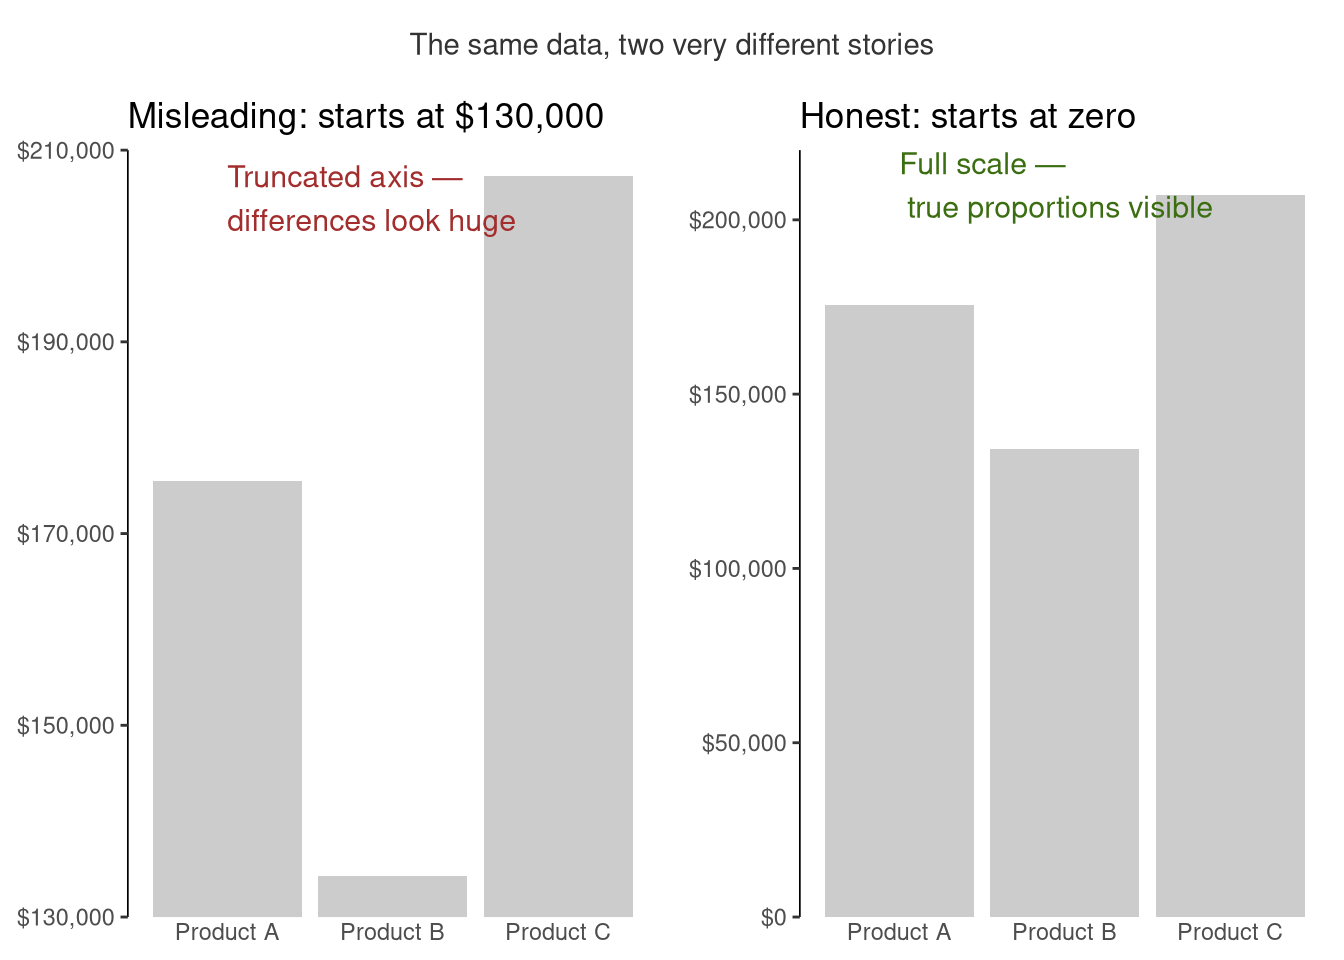
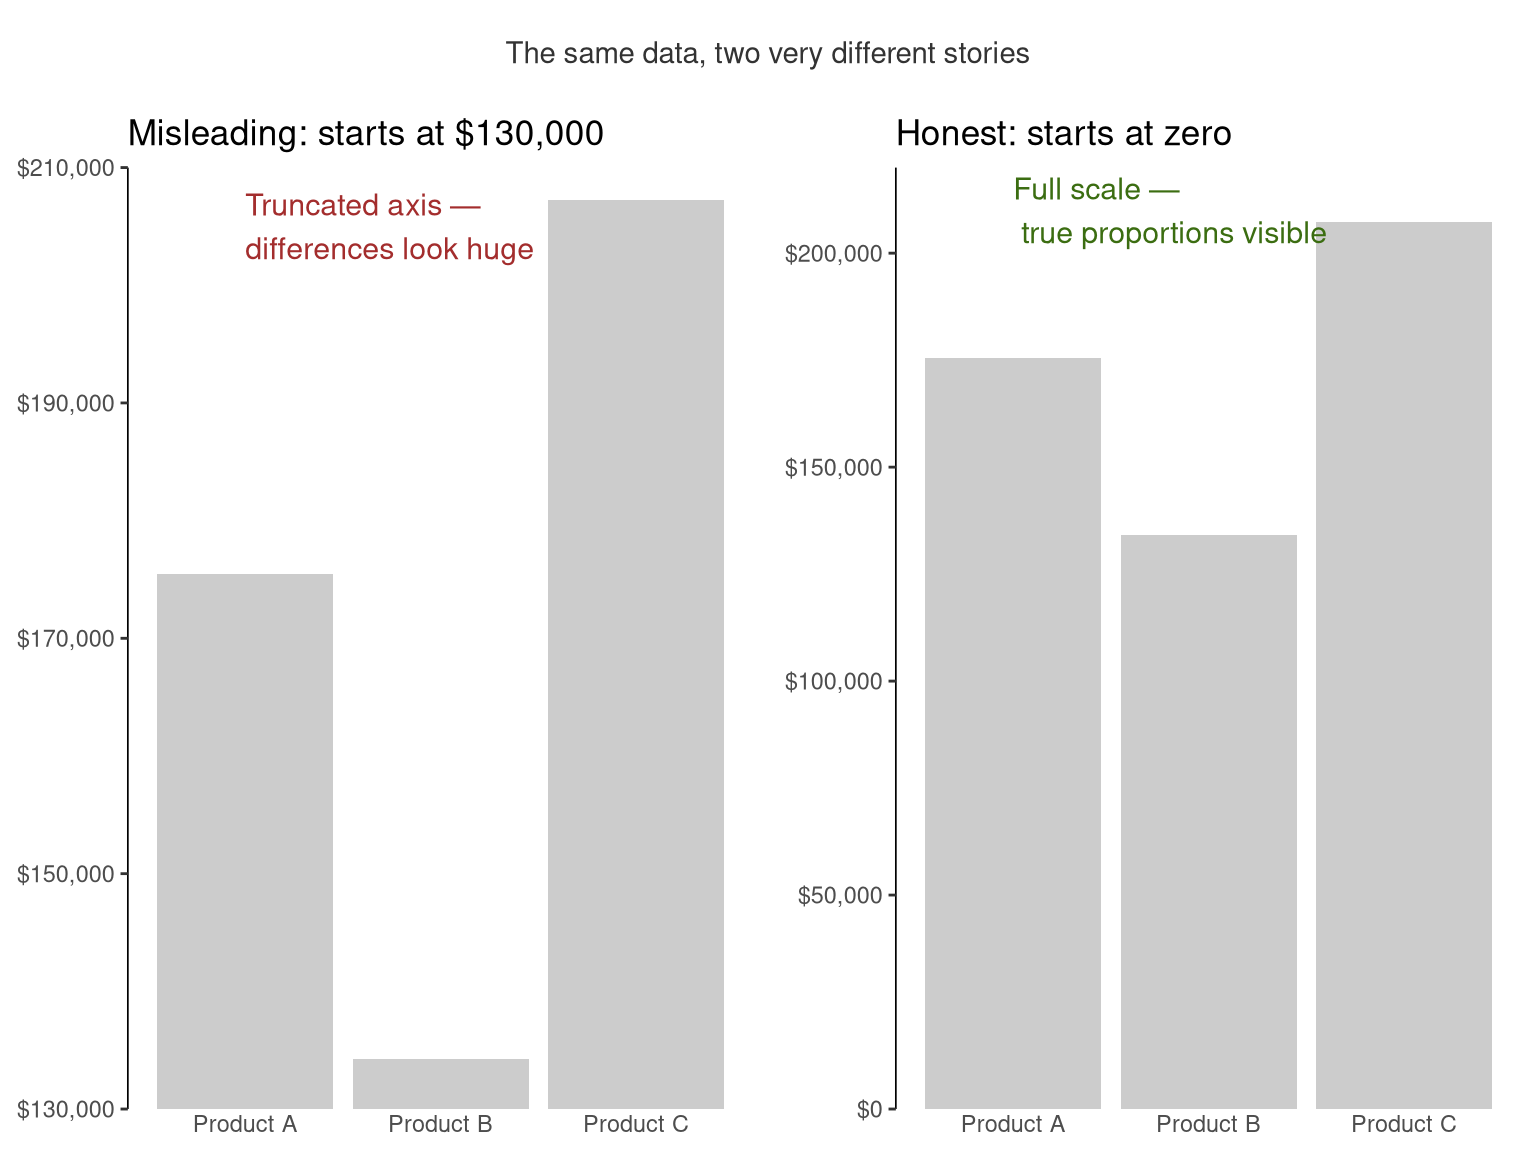
set figure aspect ratios in yaml setup

diff --git a/tufte_visualization_exercises.html b/tufte_visualization_exercises.html
@@ -221,7 +221,7 @@ $ market_share          &lt;dbl&gt; 18.5, 15.2, 22.1, 19.8, 13.7, 23.4, 17.9, 16
 <div class="cell-output-display">
 <div>
 <figure class="figure">
-<p><img src="tufte_visualization_exercises_files/figure-html/exercise-1-1.png" class="img-fluid figure-img" width="672"></p>
+<p><img src="tufte_visualization_exercises_files/figure-html/exercise-1-1.png" class="img-fluid figure-img" width="768"></p>
 </figure>
 </div>
 </div>
@@ -260,7 +260,7 @@ $ market_share          &lt;dbl&gt; 18.5, 15.2, 22.1, 19.8, 13.7, 23.4, 17.9, 16
 <div class="cell-output-display">
 <div>
 <figure class="figure">
-<p><img src="tufte_visualization_exercises_files/figure-html/exercise-2-1.png" class="img-fluid figure-img" width="672"></p>
+<p><img src="tufte_visualization_exercises_files/figure-html/exercise-2-1.png" class="img-fluid figure-img" width="768"></p>
 </figure>
 </div>
 </div>
@@ -314,7 +314,7 @@ $ market_share          &lt;dbl&gt; 18.5, 15.2, 22.1, 19.8, 13.7, 23.4, 17.9, 16
 <div class="cell-output-display">
 <div>
 <figure class="figure">
-<p><img src="tufte_visualization_exercises_files/figure-html/exercise-3-1.png" class="img-fluid figure-img" width="672"></p>
+<p><img src="tufte_visualization_exercises_files/figure-html/exercise-3-1.png" class="img-fluid figure-img" width="768"></p>
 </figure>
 </div>
 </div>
@@ -355,7 +355,7 @@ $ market_share          &lt;dbl&gt; 18.5, 15.2, 22.1, 19.8, 13.7, 23.4, 17.9, 16
 <div class="cell-output-display">
 <div>
 <figure class="figure">
-<p><img src="tufte_visualization_exercises_files/figure-html/exercise-4-1.png" class="img-fluid figure-img" width="672"></p>
+<p><img src="tufte_visualization_exercises_files/figure-html/exercise-4-1.png" class="img-fluid figure-img" width="768"></p>
 </figure>
 </div>
 </div>
@@ -370,41 +370,43 @@ $ market_share          &lt;dbl&gt; 18.5, 15.2, 22.1, 19.8, 13.7, 23.4, 17.9, 16
 <div class="cell">
 <div class="code-copy-outer-scaffold"><div class="sourceCode cell-code" id="cb7"><pre class="sourceCode r code-with-copy"><code class="sourceCode r"><span id="cb7-1"><a href="#cb7-1" aria-hidden="true" tabindex="-1"></a><span class="fu">ggplot</span>(data, <span class="fu">aes</span>(<span class="at">x =</span> units_sold, <span class="at">y =</span> customer_satisfaction, <span class="at">col =</span> product)) <span class="sc">+</span></span>
 <span id="cb7-2"><a href="#cb7-2" aria-hidden="true" tabindex="-1"></a>  <span class="fu">geom_text</span>(<span class="fu">aes</span>(<span class="at">label =</span> <span class="fu">substr</span>(region, <span class="dv">1</span>, <span class="dv">1</span>)), <span class="at">size =</span> <span class="dv">4</span>, <span class="at">show.legend =</span> <span class="cn">FALSE</span>) <span class="sc">+</span></span>
-<span id="cb7-3"><a href="#cb7-3" aria-hidden="true" tabindex="-1"></a>  <span class="fu">geom_text</span>(</span>
-<span id="cb7-4"><a href="#cb7-4" aria-hidden="true" tabindex="-1"></a>    <span class="at">data =</span> data <span class="sc">|&gt;</span> <span class="fu">filter</span>(year <span class="sc">==</span> <span class="fu">min</span>(year), region <span class="sc">==</span> <span class="st">"North"</span>),</span>
-<span id="cb7-5"><a href="#cb7-5" aria-hidden="true" tabindex="-1"></a>    <span class="fu">aes</span>(<span class="at">label =</span> product),</span>
-<span id="cb7-6"><a href="#cb7-6" aria-hidden="true" tabindex="-1"></a>    <span class="at">hjust =</span> <span class="dv">0</span>, <span class="at">nudge_x =</span> <span class="dv">20</span>, <span class="at">size =</span> <span class="fl">2.5</span>, <span class="at">fontface =</span> <span class="st">"bold"</span></span>
-<span id="cb7-7"><a href="#cb7-7" aria-hidden="true" tabindex="-1"></a>  ) <span class="sc">+</span></span>
+<span id="cb7-3"><a href="#cb7-3" aria-hidden="true" tabindex="-1"></a><span class="fu">geom_text</span>(</span>
+<span id="cb7-4"><a href="#cb7-4" aria-hidden="true" tabindex="-1"></a>  <span class="at">data =</span> data <span class="sc">|&gt;</span> <span class="fu">filter</span>(year <span class="sc">==</span> <span class="fu">min</span>(year), region <span class="sc">==</span> <span class="st">"North"</span>),</span>
+<span id="cb7-5"><a href="#cb7-5" aria-hidden="true" tabindex="-1"></a>  <span class="fu">aes</span>(<span class="at">label =</span> product),</span>
+<span id="cb7-6"><a href="#cb7-6" aria-hidden="true" tabindex="-1"></a>  <span class="at">hjust =</span> <span class="dv">0</span>, <span class="at">nudge_x =</span> <span class="dv">20</span>, <span class="at">nudge_y =</span> <span class="fl">0.35</span>, <span class="at">size =</span> <span class="dv">3</span>, <span class="at">fontface =</span> <span class="st">"bold"</span></span>
+<span id="cb7-7"><a href="#cb7-7" aria-hidden="true" tabindex="-1"></a>)<span class="sc">+</span></span>
 <span id="cb7-8"><a href="#cb7-8" aria-hidden="true" tabindex="-1"></a>  <span class="fu">facet_grid</span>(year <span class="sc">~</span> .) <span class="sc">+</span></span>
 <span id="cb7-9"><a href="#cb7-9" aria-hidden="true" tabindex="-1"></a>  <span class="fu">scale_colour_manual</span>(<span class="at">values =</span> <span class="fu">c</span>(<span class="st">"Product A"</span> <span class="ot">=</span> <span class="st">"grey20"</span>,</span>
 <span id="cb7-10"><a href="#cb7-10" aria-hidden="true" tabindex="-1"></a>                                 <span class="st">"Product B"</span> <span class="ot">=</span> <span class="st">"grey60"</span>,</span>
 <span id="cb7-11"><a href="#cb7-11" aria-hidden="true" tabindex="-1"></a>                                 <span class="st">"Product C"</span> <span class="ot">=</span> <span class="st">"#4a90a4"</span>)) <span class="sc">+</span></span>
 <span id="cb7-12"><a href="#cb7-12" aria-hidden="true" tabindex="-1"></a>  <span class="fu">scale_y_continuous</span>(<span class="at">breaks =</span> <span class="fu">seq</span>(<span class="dv">3</span>, <span class="dv">5</span>, <span class="at">by =</span> <span class="fl">0.5</span>)) <span class="sc">+</span></span>
-<span id="cb7-13"><a href="#cb7-13" aria-hidden="true" tabindex="-1"></a>  <span class="fu">coord_cartesian</span>(<span class="at">ylim =</span> <span class="fu">c</span>(<span class="dv">3</span>, <span class="dv">5</span>), <span class="at">clip =</span> <span class="st">"off"</span>) <span class="sc">+</span></span>
-<span id="cb7-14"><a href="#cb7-14" aria-hidden="true" tabindex="-1"></a>  <span class="fu">theme</span>(</span>
-<span id="cb7-15"><a href="#cb7-15" aria-hidden="true" tabindex="-1"></a>    <span class="at">panel.grid       =</span> <span class="fu">element_blank</span>(),</span>
-<span id="cb7-16"><a href="#cb7-16" aria-hidden="true" tabindex="-1"></a>    <span class="at">panel.border     =</span> <span class="fu">element_blank</span>(),</span>
-<span id="cb7-17"><a href="#cb7-17" aria-hidden="true" tabindex="-1"></a>    <span class="at">panel.background =</span> <span class="fu">element_blank</span>(),</span>
-<span id="cb7-18"><a href="#cb7-18" aria-hidden="true" tabindex="-1"></a>    <span class="at">strip.background =</span> <span class="fu">element_blank</span>(),</span>
-<span id="cb7-19"><a href="#cb7-19" aria-hidden="true" tabindex="-1"></a>    <span class="at">axis.line        =</span> <span class="fu">element_blank</span>(),</span>
-<span id="cb7-20"><a href="#cb7-20" aria-hidden="true" tabindex="-1"></a>    <span class="at">axis.ticks       =</span> <span class="fu">element_blank</span>(),</span>
-<span id="cb7-21"><a href="#cb7-21" aria-hidden="true" tabindex="-1"></a>    <span class="at">legend.position  =</span> <span class="st">"none"</span>,</span>
-<span id="cb7-22"><a href="#cb7-22" aria-hidden="true" tabindex="-1"></a>    <span class="at">axis.text.y      =</span> <span class="fu">element_text</span>(<span class="at">size =</span> <span class="dv">8</span>),</span>
-<span id="cb7-23"><a href="#cb7-23" aria-hidden="true" tabindex="-1"></a>    <span class="at">strip.text.y     =</span> <span class="fu">element_text</span>(<span class="at">angle =</span> <span class="dv">0</span>, <span class="at">size =</span> <span class="dv">9</span>),</span>
-<span id="cb7-24"><a href="#cb7-24" aria-hidden="true" tabindex="-1"></a>    <span class="at">plot.margin      =</span> <span class="fu">margin</span>(<span class="at">r =</span> <span class="dv">60</span>),</span>
-<span id="cb7-25"><a href="#cb7-25" aria-hidden="true" tabindex="-1"></a>    <span class="at">panel.spacing.y  =</span> <span class="fu">unit</span>(<span class="dv">1</span>, <span class="st">"cm"</span>),</span>
-<span id="cb7-26"><a href="#cb7-26" aria-hidden="true" tabindex="-1"></a>    <span class="at">plot.caption     =</span> <span class="fu">element_text</span>(<span class="at">colour =</span> <span class="st">"grey60"</span>),</span>
-<span id="cb7-27"><a href="#cb7-27" aria-hidden="true" tabindex="-1"></a>    <span class="at">plot.title   =</span> <span class="fu">element_text</span>(<span class="at">size =</span> <span class="dv">12</span>),</span>
-<span id="cb7-28"><a href="#cb7-28" aria-hidden="true" tabindex="-1"></a>    <span class="at">axis.title.x =</span> <span class="fu">element_text</span>(<span class="at">size =</span> <span class="dv">12</span>),</span>
-<span id="cb7-29"><a href="#cb7-29" aria-hidden="true" tabindex="-1"></a>    <span class="at">axis.title.y =</span> <span class="fu">element_text</span>(<span class="at">size =</span> <span class="dv">12</span>)</span>
-<span id="cb7-30"><a href="#cb7-30" aria-hidden="true" tabindex="-1"></a>  ) <span class="sc">+</span></span>
-<span id="cb7-31"><a href="#cb7-31" aria-hidden="true" tabindex="-1"></a>  <span class="fu">labs</span>(<span class="at">x =</span> <span class="st">"Number of Units Sold"</span>, <span class="at">y =</span> <span class="st">"Customer Satisfaction (1-5)"</span>,</span>
-<span id="cb7-32"><a href="#cb7-32" aria-hidden="true" tabindex="-1"></a>       <span class="at">title =</span> <span class="st">"Number of Units Sold Correlates Positively with Customer Satisfaction Across All Years"</span>,</span>
-<span id="cb7-33"><a href="#cb7-33" aria-hidden="true" tabindex="-1"></a>       <span class="at">caption =</span> <span class="st">"The regions are indicated by 'N'='North', 'E'='East', 'S'='South', 'W'='West'. </span><span class="sc">\n</span><span class="st">Product A is in dark grey, Product B is light grey, and Product C is blue."</span>)</span></code></pre></div><button title="Copy to Clipboard" class="code-copy-button"><i class="bi"></i></button></div>
+<span id="cb7-13"><a href="#cb7-13" aria-hidden="true" tabindex="-1"></a>  <span class="fu">scale_x_continuous</span>(<span class="at">breaks =</span> <span class="fu">c</span>(<span class="fu">min</span>(data<span class="sc">$</span>units_sold), <span class="dv">400</span>, <span class="dv">500</span>, <span class="dv">600</span>, <span class="fu">max</span>(data<span class="sc">$</span>units_sold))</span>
+<span id="cb7-14"><a href="#cb7-14" aria-hidden="true" tabindex="-1"></a>) <span class="sc">+</span></span>
+<span id="cb7-15"><a href="#cb7-15" aria-hidden="true" tabindex="-1"></a>  <span class="fu">coord_cartesian</span>(<span class="at">ylim =</span> <span class="fu">c</span>(<span class="fl">3.5</span>, <span class="dv">5</span>), <span class="at">clip =</span> <span class="st">"off"</span>) <span class="sc">+</span></span>
+<span id="cb7-16"><a href="#cb7-16" aria-hidden="true" tabindex="-1"></a>  <span class="fu">theme</span>(</span>
+<span id="cb7-17"><a href="#cb7-17" aria-hidden="true" tabindex="-1"></a>    <span class="at">panel.grid       =</span> <span class="fu">element_blank</span>(),</span>
+<span id="cb7-18"><a href="#cb7-18" aria-hidden="true" tabindex="-1"></a>    <span class="at">panel.border     =</span> <span class="fu">element_blank</span>(),</span>
+<span id="cb7-19"><a href="#cb7-19" aria-hidden="true" tabindex="-1"></a>    <span class="at">panel.background =</span> <span class="fu">element_blank</span>(),</span>
+<span id="cb7-20"><a href="#cb7-20" aria-hidden="true" tabindex="-1"></a>    <span class="at">strip.background =</span> <span class="fu">element_blank</span>(),</span>
+<span id="cb7-21"><a href="#cb7-21" aria-hidden="true" tabindex="-1"></a>    <span class="at">axis.line        =</span> <span class="fu">element_blank</span>(),</span>
+<span id="cb7-22"><a href="#cb7-22" aria-hidden="true" tabindex="-1"></a>    <span class="at">axis.ticks       =</span> <span class="fu">element_blank</span>(),</span>
+<span id="cb7-23"><a href="#cb7-23" aria-hidden="true" tabindex="-1"></a>    <span class="at">legend.position  =</span> <span class="st">"none"</span>,</span>
+<span id="cb7-24"><a href="#cb7-24" aria-hidden="true" tabindex="-1"></a>    <span class="at">axis.text.y      =</span> <span class="fu">element_text</span>(<span class="at">size =</span> <span class="dv">8</span>),</span>
+<span id="cb7-25"><a href="#cb7-25" aria-hidden="true" tabindex="-1"></a>    <span class="at">strip.text.y     =</span> <span class="fu">element_text</span>(<span class="at">angle =</span> <span class="dv">0</span>, <span class="at">size =</span> <span class="dv">9</span>),</span>
+<span id="cb7-26"><a href="#cb7-26" aria-hidden="true" tabindex="-1"></a>    <span class="at">plot.margin      =</span> <span class="fu">margin</span>(<span class="at">r =</span> <span class="dv">60</span>),</span>
+<span id="cb7-27"><a href="#cb7-27" aria-hidden="true" tabindex="-1"></a>    <span class="at">panel.spacing.y  =</span> <span class="fu">unit</span>(<span class="dv">1</span>, <span class="st">"cm"</span>),</span>
+<span id="cb7-28"><a href="#cb7-28" aria-hidden="true" tabindex="-1"></a>    <span class="at">plot.caption     =</span> <span class="fu">element_text</span>(<span class="at">colour =</span> <span class="st">"grey60"</span>),</span>
+<span id="cb7-29"><a href="#cb7-29" aria-hidden="true" tabindex="-1"></a>    <span class="at">plot.title   =</span> <span class="fu">element_text</span>(<span class="at">size =</span> <span class="dv">12</span>),</span>
+<span id="cb7-30"><a href="#cb7-30" aria-hidden="true" tabindex="-1"></a>    <span class="at">axis.title.x =</span> <span class="fu">element_text</span>(<span class="at">size =</span> <span class="dv">12</span>),</span>
+<span id="cb7-31"><a href="#cb7-31" aria-hidden="true" tabindex="-1"></a>    <span class="at">axis.title.y =</span> <span class="fu">element_text</span>(<span class="at">size =</span> <span class="dv">12</span>)</span>
+<span id="cb7-32"><a href="#cb7-32" aria-hidden="true" tabindex="-1"></a>  ) <span class="sc">+</span></span>
+<span id="cb7-33"><a href="#cb7-33" aria-hidden="true" tabindex="-1"></a>  <span class="fu">labs</span>(<span class="at">x =</span> <span class="st">"Number of Units Sold"</span>, <span class="at">y =</span> <span class="st">"Customer Satisfaction (1-5)"</span>,</span>
+<span id="cb7-34"><a href="#cb7-34" aria-hidden="true" tabindex="-1"></a>       <span class="at">title =</span> <span class="st">"Number of Units Sold Correlates Positively with Customer Satisfaction Across All Years"</span>,</span>
+<span id="cb7-35"><a href="#cb7-35" aria-hidden="true" tabindex="-1"></a>       <span class="at">caption =</span> <span class="st">"The regions are indicated by 'N'='North', 'E'='East', 'S'='South', 'W'='West'."</span>)</span></code></pre></div><button title="Copy to Clipboard" class="code-copy-button"><i class="bi"></i></button></div>
 <div class="cell-output-display">
 <div>
 <figure class="figure">
-<p><img src="tufte_visualization_exercises_files/figure-html/exercise-5-1.png" class="img-fluid figure-img" width="672"></p>
+<p><img src="tufte_visualization_exercises_files/figure-html/exercise-5-1.png" class="img-fluid figure-img" width="768"></p>
 </figure>
 </div>
 </div>
@@ -454,7 +456,7 @@ $ market_share          &lt;dbl&gt; 18.5, 15.2, 22.1, 19.8, 13.7, 23.4, 17.9, 16
 <div class="cell-output-display">
 <div>
 <figure class="figure">
-<p><img src="tufte_visualization_exercises_files/figure-html/exercise-6-1.png" class="img-fluid figure-img" width="672"></p>
+<p><img src="tufte_visualization_exercises_files/figure-html/exercise-6-1.png" class="img-fluid figure-img" width="768"></p>
 </figure>
 </div>
 </div>
@@ -502,7 +504,7 @@ $ market_share          &lt;dbl&gt; 18.5, 15.2, 22.1, 19.8, 13.7, 23.4, 17.9, 16
 <div class="cell-output-display">
 <div>
 <figure class="figure">
-<p><img src="tufte_visualization_exercises_files/figure-html/exercise-7-1.png" class="img-fluid figure-img" width="672"></p>
+<p><img src="tufte_visualization_exercises_files/figure-html/exercise-7-1.png" class="img-fluid figure-img" width="768"></p>
 </figure>
 </div>
 </div>
@@ -534,7 +536,7 @@ $ market_share          &lt;dbl&gt; 18.5, 15.2, 22.1, 19.8, 13.7, 23.4, 17.9, 16
 <div class="cell-output-display">
 <div>
 <figure class="figure">
-<p><img src="tufte_visualization_exercises_files/figure-html/exercise-8-1.png" class="img-fluid figure-img" width="672"></p>
+<p><img src="tufte_visualization_exercises_files/figure-html/exercise-8-1.png" class="img-fluid figure-img" width="768"></p>
 </figure>
 </div>
 </div>
@@ -595,7 +597,7 @@ $ market_share          &lt;dbl&gt; 18.5, 15.2, 22.1, 19.8, 13.7, 23.4, 17.9, 16
 <div class="cell-output-display">
 <div>
 <figure class="figure">
-<p><img src="tufte_visualization_exercises_files/figure-html/exercise-9-1.png" class="img-fluid figure-img" width="672"></p>
+<p><img src="tufte_visualization_exercises_files/figure-html/exercise-9-1.png" class="img-fluid figure-img" width="768"></p>
 </figure>
 </div>
 </div>
@@ -748,7 +750,7 @@ $ market_share          &lt;dbl&gt; 18.5, 15.2, 22.1, 19.8, 13.7, 23.4, 17.9, 16
 <div class="cell-output-display">
 <div>
 <figure class="figure">
-<p><img src="tufte_visualization_exercises_files/figure-html/exercise-10-1.png" class="img-fluid figure-img" width="672"></p>
+<p><img src="tufte_visualization_exercises_files/figure-html/exercise-10-1.png" class="img-fluid figure-img" width="768"></p>
 </figure>
 </div>
 </div>
